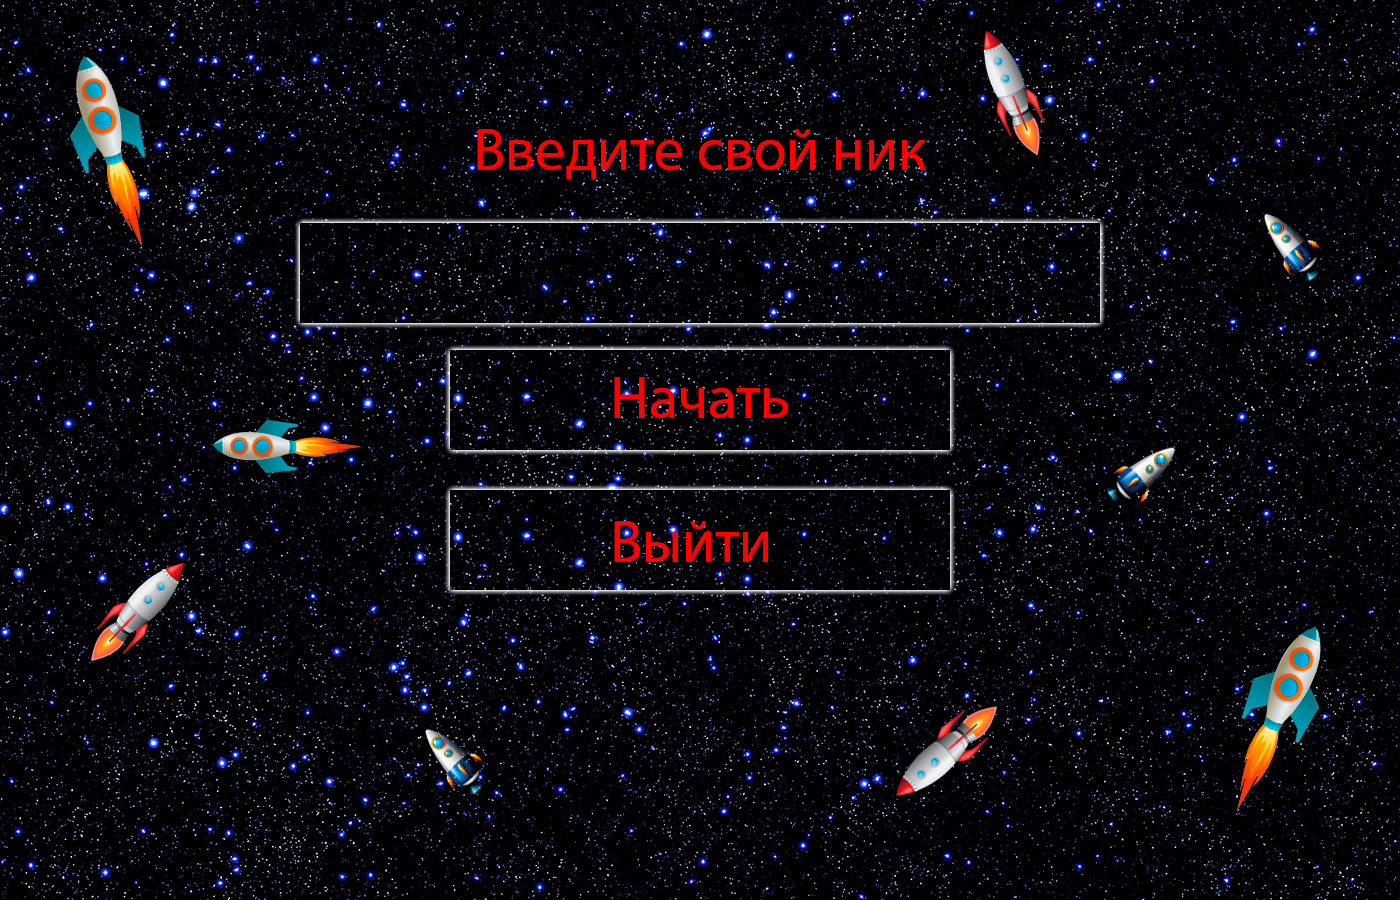
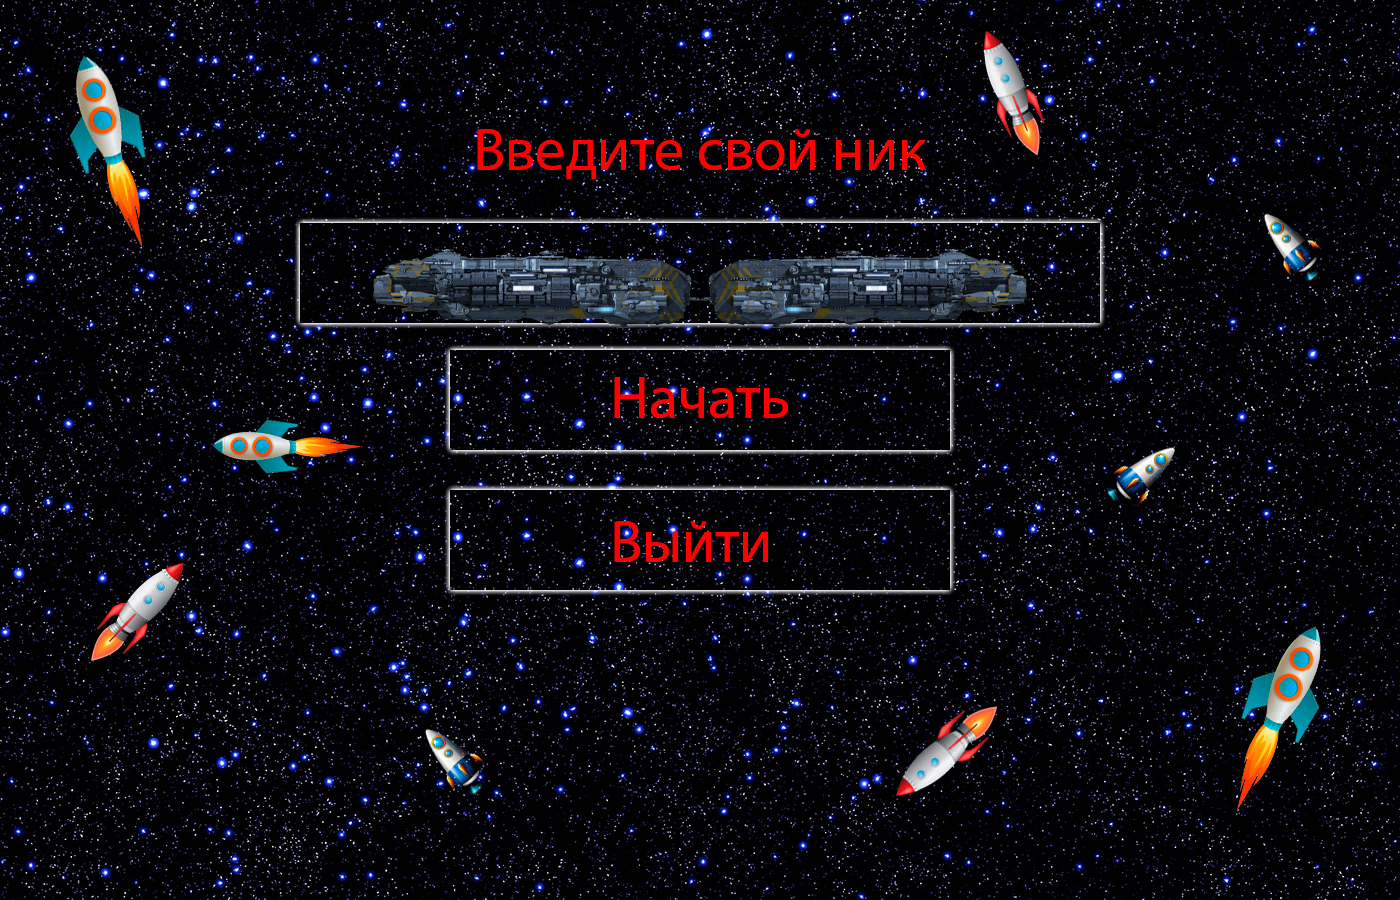
Доделал Start можно собирать. Обновил интерфейс

Changed region(s): [[0.2457, 0.28, 0.7371, 0.3733]]

diff --git a/Tetris/start.py b/Tetris/start.py
@@ -7,32 +7,42 @@ class Start:
 
     def __init__(self, screen, all_sprites):
 
+        self.name = ''
+
         run = True
 
         while run:
             time_delta = clock.tick(60) / 1000.0
             for event in pygame.event.get():
                 if event.type == pygame.QUIT:
-                    running = False
+                    sys.exit()
                 
                 if event.type == pygame.USEREVENT:
                     if event.user_type == pygame_gui.UI_BUTTON_PRESSED:
                         if event.ui_element == go:
-                            pass
+                            if label.text != '':
+                                self.name = label.text
+                                return
+
                         elif event.ui_element == to_exit:
                             sys.exit()
 
+
                 manager.process_events(event)
+                manager1.process_events(event)
+
             manager.update(time_delta)
             manager.draw_ui(screen)
 
             all_sprites.draw(screen)
+            manager1.update(time_delta)
+            manager1.draw_ui(screen)
             pygame.display.update()
+            pygame.display.flip()
 
 
 def load_image(name, colorkey=None):
     fullname = os.path.join('data', name)
-    fullname = "C:/Users/xartu/OneDrive/Рабочий стол/Work plase/Pesyah Vs Python/PyGame/Tetris/data/Start_Fon.jpg"
     image = pygame.image.load(fullname)
     return image
 
@@ -54,20 +64,28 @@ all_sprites.add(image)
 all_sprites.draw(screen)
 
 
-
 manager = pygame_gui.UIManager((1400, 900))
-
+manager1 = pygame_gui.UIManager((1400, 900), 'text_entry_line.json')
+#510 110
 go = pygame_gui.elements.UIButton(
-    relative_rect=pygame.Rect((510, 110), (450, 350)),
+    relative_rect=pygame.Rect((450, 350), (500, 100)),
     text='',
-    manager=manager
+    manager=manager,
+    visible=1
 )
-
+#450 490
 to_exit = pygame_gui.elements.UIButton(
-    relative_rect=pygame.Rect((450, 490), (450, 350)),
+    relative_rect=pygame.Rect((450, 490), (500, 100)),
     text='',
-    manager=manager
+    manager=manager,
+    visible=1
+)
+#300 230
+label = pygame_gui.elements.UITextEntryLine(
+    relative_rect=pygame.Rect((298, 220), (805, -1)),
+    manager=manager1
 )
 
-
-Start(screen, all_sprites)
+if __name__ == "__main__":
+    nickname = Start(screen, all_sprites)
+    nickname = nickname.name
